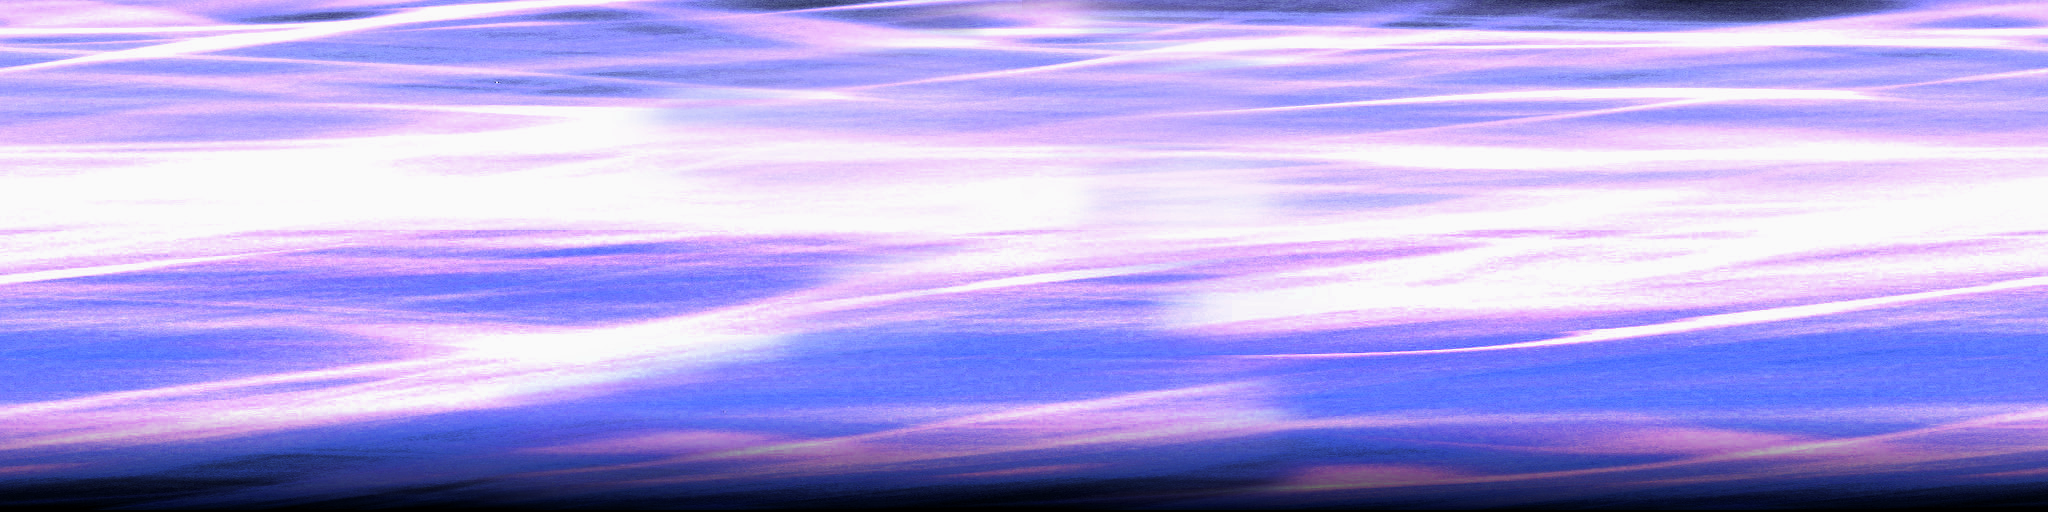
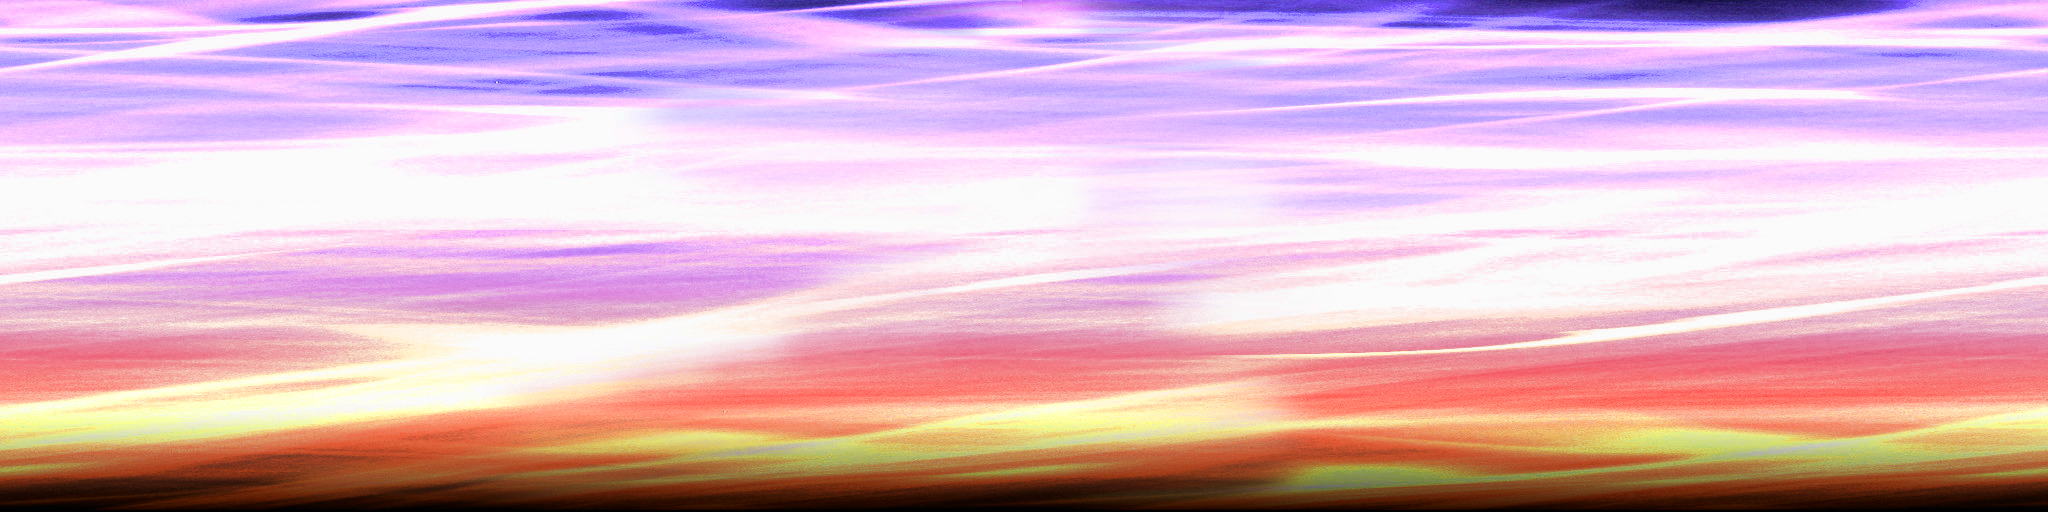
sixthkind rebranding

diff --git a/index.html b/index.html
@@ -47,9 +47,11 @@
 
       .link {
         text-align: right;
-        color: #7d8ecc;
+        color: #ed5188;
         text-shadow: 0 2px 24px rgba(125, 142, 204, 0.8);
         text-decoration: none;
+        padding-right: 106px;
+        margin-top: -20px;
       }
 
       .monospace {
@@ -80,9 +82,11 @@
     <div class="content">
       <section>
         <div style="display: flex; align-items: center; gap: 1rem;">
-          <h1 class="title monospace">_sixthkind</h1>
+          <!-- <h1 class="title"><span class="monospace">sixthkind</span></h1> -->
+          <img src="/assets/logo.png" alt="sixthkind logo" style="height: 50px;">
+          <img src="/assets/icon.png" alt="sixthkind icon" style="width: 80px; height: 80px;">
         </div>
-        <!-- <a class="link" href="https://nexus.sixthkind.com">
+        <a class="link" href="https://nexus.sixthkind.com">
           _nexus
           <svg width="16" height="16" viewBox="0 0 24 24" fill="none" xmlns="http://www.w3.org/2000/svg">
             <path d="M3 5C3 3.89543 3.89543 3 5 3H11C11.5523 3 12 3.44772 12 4V20C12 19.4477 11.5523 19 11 19H5C3.89543 19 3 18.1046 3 17V5Z" 
@@ -91,8 +95,7 @@
                   stroke="currentColor" stroke-width="2" stroke-linecap="round"/>
             <path d="M12 4V20" stroke="currentColor" stroke-width="2" stroke-linecap="round"/>
           </svg>
-        </a> -->
-        </a> -->
+        </a>
       </section>
 
     </div>

diff --git a/src/gui/datGUI.js b/src/gui/datGUI.js
@@ -31,9 +31,9 @@ export function createConfigGUI(changePerformanceQuality, saveScreenshot) {
     //   threshold: 0.6
     // };    
     const bloomConfig = {
-      strength: 1.3,
+      strength: 0.9,
       radius: 0.7,
-      threshold: 0.7
+      threshold: 0.98
     };
 
     // const bloomFolder = gui.addFolder('Bloom')
